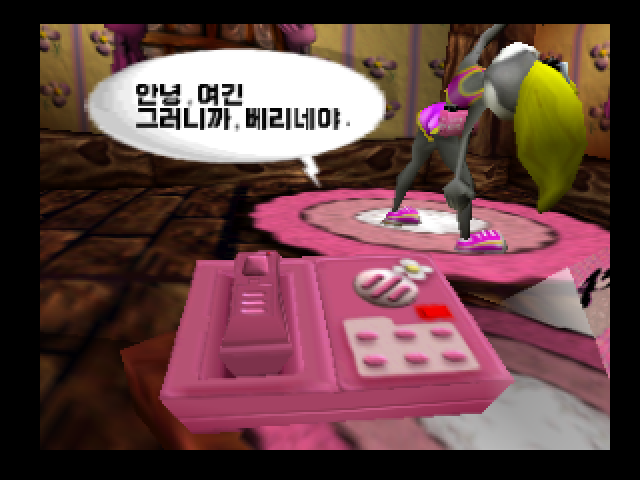
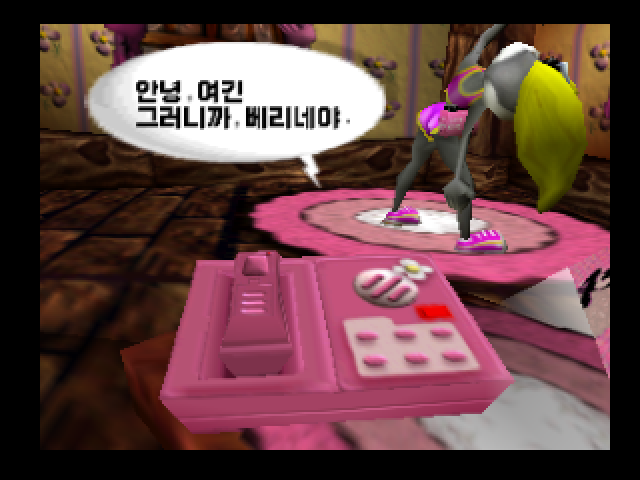
v1.0.1: 한글 글자 윗부분 잘림 수정

Changed region(s): [[0.125, 0.0625, 0.625, 0.3438], [0.5625, 0.25, 0.5938, 0.2812]]

diff --git a/tools/mkfont.py b/tools/mkfont.py
@@ -1,12 +1,13 @@
 from PIL import Image,ImageDraw,ImageFont
 import sys
 FONT='galmuri/Galmuri11-Bold.ttf'
-W,H=12,12
+W,H=12,13
+TOP=1
 def render(ch,size=12):
     f=ImageFont.truetype(FONT,size)
     im=Image.new('L',(W,H),0); dr=ImageDraw.Draw(im); dr.fontmode='1'
     bb=dr.textbbox((0,0),'한',font=f)
-    dr.text(((W-(bb[2]-bb[0]))//2-bb[0],(H-(bb[3]-bb[1]))//2-bb[1]),ch,font=f,fill=255)
+    dr.text(((W-(bb[2]-bb[0]))//2-bb[0],TOP-bb[1]),ch,font=f,fill=255)
     return im
 def glyph_bytes(im):
     px=im.load(); out=bytearray(224)

diff --git a/tools/kcode.py b/tools/kcode.py
@@ -19,7 +19,7 @@ def build():
     a.L('COMMON')
     a.addiu('t0','t0',-0x80); a.sll('t0','t0',6); a.addiu('t1','t1',-0xc0); a.or_('t0','t0','t1')
     a.lui('at',0x8040); a.sw('t0',CUR,'at')
-    a.lui('at',0x8008); a.lw('t1',0x5994,'at'); a.lui('t2',0x0d0c); a.sw('t2',SLOT*4,'t1')
+    a.lui('at',0x8008); a.lw('t1',0x5994,'at'); a.lui('t2',0x0d0d); a.sw('t2',SLOT*4,'t1')
     a.jr('ra'); a.addiu('v0','zero',SLOT)
     a.L('ORIG'); a.j(C40); a.nop()
     # KTEX: reached by j from 0x15042458; must do lw t9,(a2) and return to 0x15042460

diff --git a/README.md b/README.md
@@ -8,8 +8,8 @@
 1. 아래 해시와 일치하는 **원본 `Conker's Bad Fur Day (USA).z64`** (빅 엔디언 .z64 형식)를 준비합니다.
    - PowerShell: `Get-FileHash -Algorithm MD5 -LiteralPath ".\Conker's Bad Fur Day (USA).z64"`
    - .n64/.v64 형식이라면 먼저 Tool64 등으로 .z64(빅 엔디언)로 바꿉니다.
-2. xdeltaUI 같은 도구로 원본 `.z64` 에 `Conker_BFD_KO_v1.0.xdelta` 를 적용합니다. (Patch = xdelta, Source File = 원본 ROM, Output File = 새 파일명)
-   - 명령줄: `xdelta3 -d -s "Conker's Bad Fur Day (USA).z64" Conker_BFD_KO_v1.0.xdelta "Conker's Bad Fur Day (Korean).z64"`
+2. xdeltaUI 같은 도구로 원본 `.z64` 에 `Conker_BFD_KO_v1.0.1.xdelta` 를 적용합니다. (Patch = xdelta, Source File = 원본 ROM, Output File = 새 파일명)
+   - 명령줄: `xdelta3 -d -s "Conker's Bad Fur Day (USA).z64" Conker_BFD_KO_v1.0.1.xdelta "Conker's Bad Fur Day (Korean).z64"`
 3. 만들어진 `.z64` 를 **확장팩(Expansion Pak, 8MB RAM)을 켠** 에뮬레이터에서 실행합니다. (BizHawk 2.11.1에서 확인)
 
 | 항목 | 값 |
@@ -18,9 +18,9 @@
 | 원본 ROM CRC32 | `ce8cc172` |
 | 원본 ROM MD5 | `00e2920665f2329b95797a7eaabc2390` |
[3 lines of base64/hex data omitted]
 | 결과 ROM 크기 | 67,108,864 바이트 |
[2 lines of base64/hex data omitted]
 
 ## 주의
 - **확장팩(8MB) 필수**입니다. 한글 글꼴을 확장 메모리(0x80401000)에 올려 쓰므로, 4MB 설정에서는 글자가 나오지 않거나 멈출 수 있습니다.
@@ -32,7 +32,7 @@
 - 컷신·게임 중 말풍선 대사 전체(861줄 + 누락 보충 12줄) 직접 번역 — 삐 처리 기호·버튼 아이콘·색 코드 유지
 - 챕터 이름, 일시정지·챕터 메뉴 문구, 타이틀 안내(성인 전용·진동팩 안내), 멀티플레이 설정(규칙·AI 수준·팀·게임 모드·통계)·사운드 옵션 문구, 스태프롤 역할명
 - 한글 838자를 2바이트 부호로 추가, 글자 매핑·폭 계산·그리기 함수 세 곳에 후크
-- 글꼴: 갈무리11 Bold (원래 글꼴과 같은 12×12 크기)
+- 글꼴: 갈무리11 Bold (12×12, 위쪽 1줄 여백을 둔 12×13 칸)
 
 ## 그대로 둔 것
 - 메인 메뉴 제목(GAME1·MULTI·OPTIONS·CHAPTERS), PAUSED·NEW GAME 등 **그림 텍스처 글자**, 타이틀 로고

diff --git a/docs/TECHNICAL.md b/docs/TECHNICAL.md
@@ -30,7 +30,7 @@
 | 0x15042458 → 0x15042460 | `KTEX`: 텍스처 포인터를 한글 글리프로 교체 (`$ra` 가 살아 있어 `jal` 대신 `j`) |
 | 후크 코드 | 0x151FA140 (코드 마지막 페이지) |
 
-한글 글리프는 쓰이지 않는 슬롯 0x5D(Ù)를 빌려 그리기 직전에 텍스처 주소만 바꿉니다.
+한글 글리프는 쓰이지 않는 슬롯 0x5D(Ù)를 빌려 그리기 직전에 텍스처 주소만 바꿉니다. 슬롯의 크기 값은 (w=13, h=13, 0, 0)으로 쓰고, 글리프는 14행 텍스처의 1행부터 그려 맨 윗줄이 잘리지 않게 합니다(v1.0.1).
 
 ## 글꼴 적재
 게임은 4MB만 쓰므로 한글 글꼴 블롭(838자, 약 0x2DD40 바이트)을 확장팩 영역 0x80401000 에 올립니다. 부트 초기화 코드 0x100044EC 에서 여백 0x100226A0 의 로더를 호출해 `osPiRawStartDma`(0x10023850)로 ROM 빈 공간(0x3F8B800 이후)에서 복사하고 `osPiGetStatus` 로 완료를 기다립니다.

diff --git a/CHANGELOG.md b/CHANGELOG.md
@@ -1,5 +1,8 @@
 # 변경 기록
 
+## v1.0.1 (2026-11-25)
+- 한글 글자 윗부분이 잘려 보이던 문제 수정 — 글리프를 맨 윗줄에서 시작하지 않도록 위쪽에 1줄 여백을 두고, 글자 높이 값을 12→13으로 늘림
+
 ## v1.0 (2026-11-25)
 - 첫 공개 릴리즈
 - 컷신·게임 중 대사 전체, 챕터 이름, 메뉴·타이틀 안내, 멀티플레이·사운드 옵션 문구, 스태프롤 역할명 직접 번역
